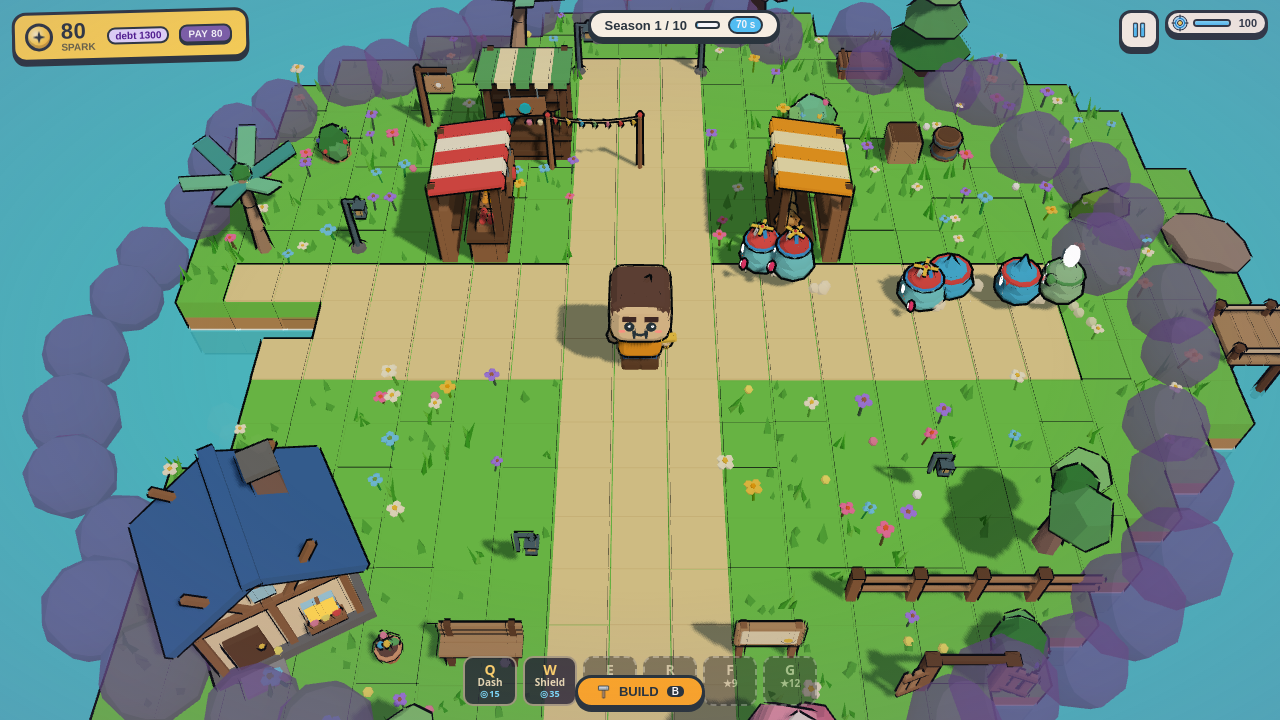
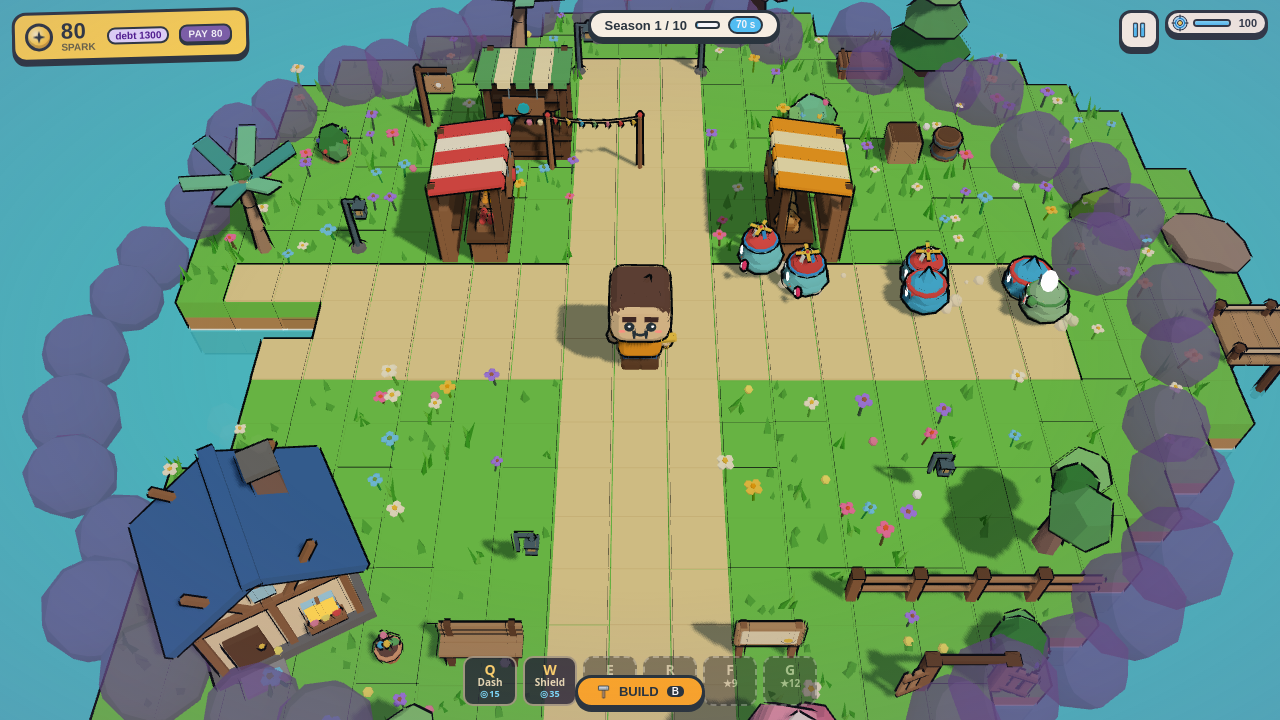
WIP ?: S84: jars panel compact rows + grid cell pinning on short landscape

Changed region(s): [[0.6875, 0.3361, 0.875, 0.4583], [0.5625, 0.3056, 0.6562, 0.4278]]

diff --git a/LUMEN/game/ui/jars.css b/LUMEN/game/ui/jars.css
@@ -14,7 +14,11 @@
 .ll-jar-name { font-size: 11px; font-weight: 900; letter-spacing: .3px; display: flex; justify-content: space-between; }
 .ll-jar-name small { font-weight: 700; opacity: .6; font-size: 9px; white-space: nowrap; display: inline-flex; align-items: center; gap: 2px; }
 .ll-jar-name small .ll-ico { width: 10px; height: 10px; vertical-align: 0; }
-.ll-jar-pct { grid-row: 1 / span 2; font-weight: 900; font-size: 14px; text-align: right; font-variant-numeric: tabular-nums; }
+.ll-jar-icon { grid-column: 1; }
+/* S84 BUGFIX: pct is row-locked, so grid auto-placement put it in the wide 1fr column and pushed the name + slider into the narrow 3rd column ("Spend 80" clipped everywhere). Pin every cell. */
+.ll-jar-name { grid-column: 2; grid-row: 1; min-width: 0; }
+.ll-jar input[type=range] { grid-column: 2; grid-row: 2; min-width: 0; }
+.ll-jar-pct { grid-column: 3; grid-row: 1 / span 2; font-weight: 900; font-size: 14px; text-align: right; font-variant-numeric: tabular-nums; }
 .ll-jar-pct small { display: block; font-size: 9px; font-weight: 700; opacity: .6; }
 .ll-jar input[type=range] { width: 100%; height: 18px; margin: 0; -webkit-appearance: none; appearance: none; background: transparent; cursor: pointer; touch-action: none; }
 .ll-jar input[type=range]::-webkit-slider-runnable-track { height: 10px; border: 2px solid var(--ink); border-radius: 6px; background: linear-gradient(90deg, var(--jar-c, var(--gold)) 0 var(--pct, 25%), #fff var(--pct, 25%) 100%); }
@@ -99,3 +103,27 @@ body.ll-dlg-open .ll-jars { display: none !important; }
 
 /* S64-B: a row of a jar that is not built yet must really disappear (the grid rule above beat the [hidden] attribute) */
 .ll-jar[hidden] { display: none; }
+
+/* S84: jars panel on SHORT LANDSCAPE phones (844x390, 568x320). It was never reviewed open: each row was 53 px tall inside a 94 px cap (one row visible), and the name column
+   was squeezed to 42 px so "Spend 80 ✦" clipped. Compact rows (~32 px: name over slider, jar icon 20 px, % and the take-back button on the right) -> Spend + Save fit without scrolling, the rest scrolls. */
+@media (orientation: landscape) and (max-height: 420px) {
+  .ll-jars { width: 204px; padding: 4px 7px 6px; }
+  .ll-jars-head { font-size: 12px; margin-bottom: 1px; }
+  body .ll-jar { gap: 0 5px; padding: 2px 0; }
+  body .ll-jar, body.is-touch .ll-jar { grid-template-columns: 20px minmax(0, 1fr) 30px; }
+  body .ll-jar.has-wd, body.is-touch .ll-jar.has-wd { grid-template-columns: 20px minmax(0, 1fr) 30px 22px; }
+  .ll-jar-icon { width: 20px; height: 24px; border-width: 2px; border-radius: 5px 5px 7px 7px; }
+  .ll-jar-icon::before { left: 4px; right: 4px; top: -2px; height: 4px; }
+  .ll-jar-name { font-size: 10px; letter-spacing: 0; }
+  .ll-jar-name small { font-size: 9px; }
+  body .ll-jar input[type=range], body.is-touch .ll-jar input[type=range] { height: 20px; }   /* still a 20 px tall touch strip, the thumb below is 16 px */
+  .ll-jar input[type=range]::-webkit-slider-runnable-track { height: 8px; }
+  body .ll-jar input[type=range]::-webkit-slider-thumb, body.is-touch .ll-jar input[type=range]::-webkit-slider-thumb { width: 16px; height: 16px; margin-top: -6px; }
+  .ll-jar-pct { font-size: 11px; }
+  .ll-jar-pct small { font-size: 8px; }
+  body .ll-jar-wd, body.is-touch .ll-jar-wd { width: 22px; height: 22px; font-size: 11px; }
+  .ll-jars-foot { margin-top: 3px; }
+  .ll-jars-foot .ll-btn { padding: 2px 5px; font-size: 10px; }
+  body.is-touch .ll-jars-foot .ll-btn, body.is-touch .ll-jars-debt .ll-btn { min-height: 30px; }
+  .ll-jars-debt { margin-top: 4px; padding: 3px 5px; }
+}
